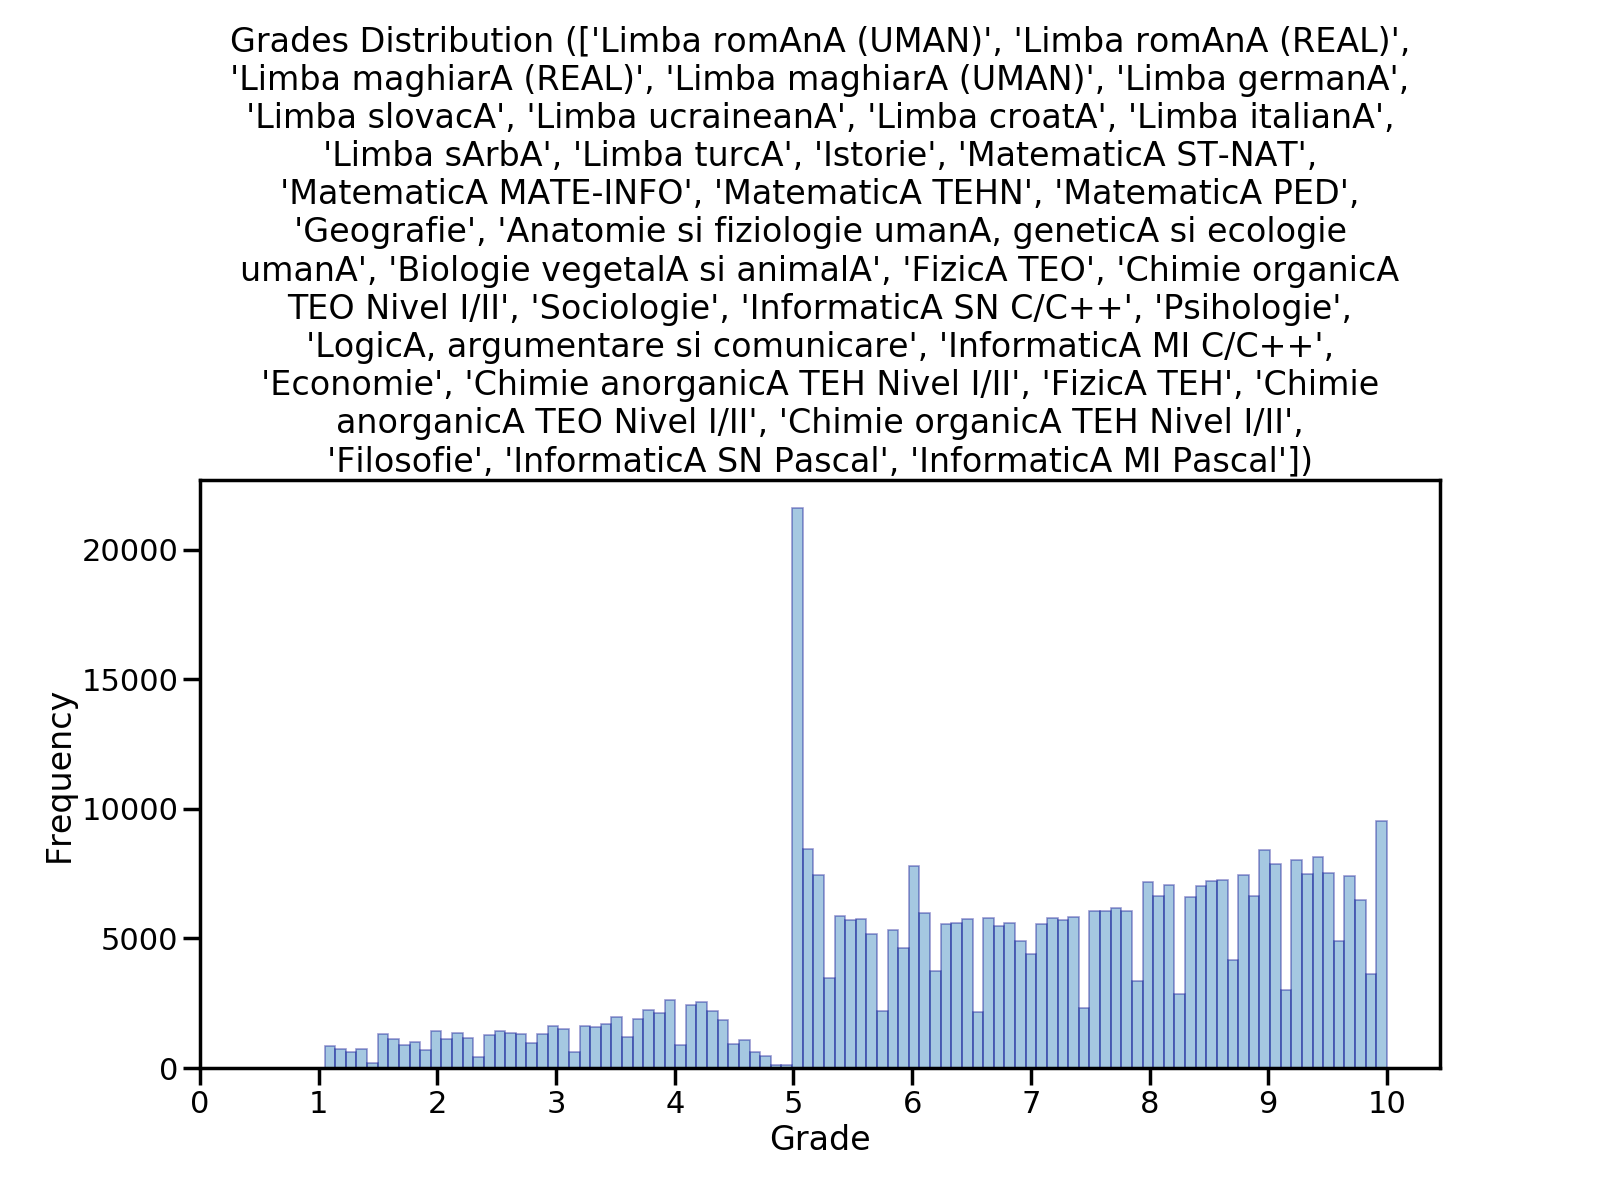
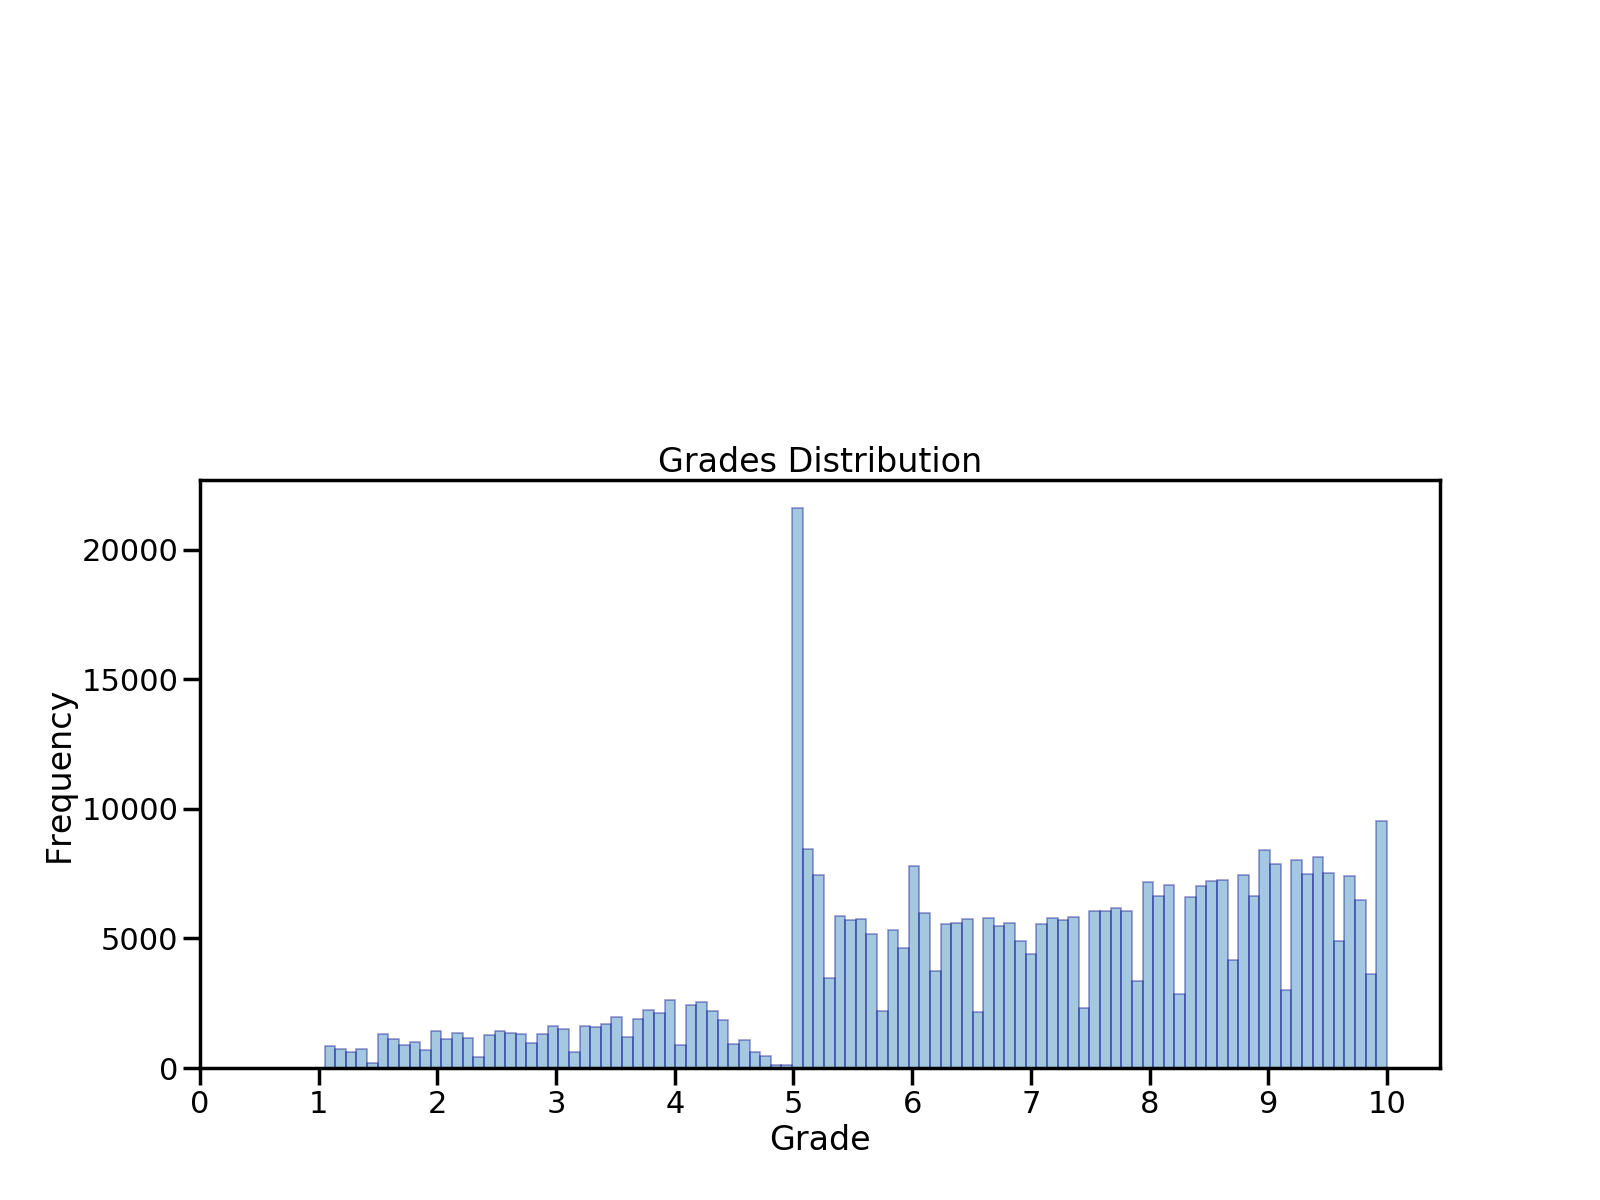
All line graphs (#40)
* create_all_line_graphs function created

* create_all_line_graphs function created

Changed region(s): [[0.1562, 0.0, 0.875, 0.4008]]

diff --git a/create_stats/create_linegraphs.py b/create_stats/create_linegraphs.py
@@ -1,28 +1,143 @@
 import sys
 import os
-sys.path.append( os.path.dirname(os.path.dirname(os.path.abspath(__file__))) ) 
-
+sys.path.append( os.path.dirname(os.path.dirname(os.path.abspath(__file__))) )
 import statistics
-from filters.student_filters import filter_by_gender, filter_by_medium
+from filters.student_filters import filter_all
 from create_stats.make_linegraph import make_linegraph
+from read_data.read_students import read_results
 
-def make_gender_linegraph(all_students, years):
+def create_all_linegraphs(all_students, years, export_path):
+ print("Started creating gender line graphs")
+ create_gender_linegraph(all_students, years, "Boys vs Girls GPA", export_path)
+ create_gender_linegraph(all_students, years, "Urban Boys vs Urban Girls GPA", export_path, "urban")
+ create_gender_linegraph(all_students, years, "Rural Boys vs Rural Girls GPA", export_path, "rural")
+ print("Finished creating gender line graphs\n")
+
+ print("Started creating medium line graphs")
+ create_medium_linegraph(all_students, years, "Urban vs Rural", export_path)
+ create_medium_linegraph(all_students, years, "Urban Boys vs Rural Boys", export_path, 'M')
+ create_medium_linegraph(all_students, years, "Urban Girls vs Rural Girls", export_path, 'F')
+ print("Finished creating medium line graphs\n")
+
+
+ print("Started creating mate-info line graphs")
+ create_specialization_linegraph(all_students, years, "mate-info vs stiinte ale naturii GPA", export_path, "matematica-informatica", "stiinte ale naturii")
+ create_specialization_linegraph(all_students, years, "mate-info rural vs stiinte ale naturii rural GPA", export_path, "matematica-informatica",
+                                                      "stiinte ale naturii", medium='rural')
+ create_specialization_linegraph(all_students, years, "mate-info rural boys vs stiinte ale naturii rural boys GPA", export_path, "matematica-informatica",
+                                                      "stiinte ale naturii", medium='rural', gender="M")
+ create_specialization_linegraph(all_students, years, "mate-info rural girls vs rural stiinte ale naturii rural girls GPA", export_path,
+                                                      "matematica-informatica","stiinte ale naturii", medium='rural', gender="F")
+ create_specialization_linegraph(all_students, years, "mate-info urban vs stiinte ale naturii urban GPA", export_path, "matematica-informatica",
+                                                      "stiinte ale naturii", medium='urban')
+ create_specialization_linegraph(all_students, years, "mate-info urban boys vs stiinte ale naturii urban boys GPA", export_path, "matematica-informatica",
+                                                      "stiinte ale naturii", medium='urban', gender="M")
+ create_specialization_linegraph(all_students, years, "mate-info urban girls vs stiinte ale naturii urban girls GPA", export_path, "matematica-informatica",
+                                                      "stiinte ale naturii", medium='urban', gender="F")
+ create_specialization_linegraph(all_students, years, "mate-info vs filologie GPA", export_path, "matematica-informatica", "filologie")
+ create_specialization_linegraph(all_students, years, "mate-info rural vs filologie rural GPA", export_path, "matematica-informatica",
+                                                      "filologie", medium='rural')
+ create_specialization_linegraph(all_students, years, "mate-info rural boys vs filologie rural boys GPA", export_path, "matematica-informatica",
+                                                      "filologie", medium='rural', gender="M")
+ create_specialization_linegraph(all_students, years, "mate-info rural girls vs rural filologie rural girls GPA", export_path, "matematica-informatica",
+                                                      "filologie", medium='rural', gender="F")
+ create_specialization_linegraph(all_students, years, "mate-info urban vs filologie urban GPA", export_path, "matematica-informatica",
+                                                      "filologie", medium='urban')
+ create_specialization_linegraph(all_students, years, "mate-info urban boys vs filologie urban boys GPA", export_path, "matematica-informatica",
+                                                      "filologie", medium='urban', gender="M")
+ create_specialization_linegraph(all_students, years, "mate-info urban girls vs filologie urban girls GPA", export_path, "matematica-informatica",
+                                                      "filologie", medium='urban', gender="F")
+ create_specialization_linegraph(all_students, years, "mate-info vs stiinte sociale GPA", export_path, "matematica-informatica", "stiinte sociale")
+ create_specialization_linegraph(all_students, years, "mate-info rural vs stiinte sociale rural GPA", export_path, "matematica-informatica",
+                                                      "stiinte sociale", medium='rural')
+ create_specialization_linegraph(all_students, years, "mate-info rural boys vs stiinte sociale rural boys GPA", export_path, "matematica-informatica",
+                                                      "stiinte sociale", medium='rural', gender="M")
+ create_specialization_linegraph(all_students, years, "mate-info rural girls vs rural stiinte sociale rural girls GPA", export_path, "matematica-informatica",
+                                                      "stiinte sociale", medium='rural', gender="F")
+ create_specialization_linegraph(all_students, years, "mate-info urban vs stiinte sociale urban GPA", export_path, "matematica-informatica",
+                                                      "stiinte sociale", medium='urban')
+ create_specialization_linegraph(all_students, years, "mate-info urban boys vs stiinte sociale urban boys GPA", export_path, "matematica-informatica",
+                                                      "stiinte sociale", medium='urban', gender="M")
+ create_specialization_linegraph(all_students, years, "mate-info urban girls vs stiinte sociale urban girls GPA", export_path, "matematica-informatica",
+                                                      "stiinte sociale", medium='urban', gender="F")
+ print("Finished creating mate-info line graphs\n")
+
+ print("Started creating stiinte ale naturii line graphs")
+ create_specialization_linegraph(all_students, years, "stiinte ale naturii vs filologie GPA", export_path, "stiinte ale naturii", "filologie")
+ create_specialization_linegraph(all_students, years, "stiinte ale naturii rural vs filologie rural GPA", export_path, "stiinte ale naturii",
+                                                      "filologie", medium='rural')
+ create_specialization_linegraph(all_students, years, "stiinte ale naturii rural boys vs filologie rural boys GPA", export_path, "stiinte ale naturii",
+                                                      "filologie", medium='rural', gender="M")
+ create_specialization_linegraph(all_students, years, "stiinte ale naturii rural girls vs rural filologie rural girls GPA", export_path, "stiinte ale naturii",
+                                                      "filologie", medium='rural', gender="F")
+ create_specialization_linegraph(all_students, years, "stiinte ale naturii urban vs filologie urban GPA", export_path, "stiinte ale naturii",
+                                                      "filologie", medium='urban')
+ create_specialization_linegraph(all_students, years, "stiinte ale naturii urban boys vs filologie urban boys GPA", export_path, "stiinte ale naturii",
+                                                      "filologie", medium='urban', gender="M")
+ create_specialization_linegraph(all_students, years, "stiinte ale naturii urban girls vs filologie urban girls GPA", export_path, "stiinte ale naturii",
+                                                      "filologie", medium='urban', gender="F")
+
+ create_specialization_linegraph(all_students, years, "stiinte ale naturii vs stiinte sociale GPA", export_path, "stiinte ale naturii", "stiinte sociale")
+ create_specialization_linegraph(all_students, years, "stiinte ale naturii rural vs stiinte sociale rural GPA", export_path, "stiinte ale naturii",
+                                                      "stiinte sociale", medium='rural')
+ create_specialization_linegraph(all_students, years, "stiinte ale naturii rural boys vs stiinte sociale rural boys GPA", export_path, "stiinte ale naturii",
+                                                      "stiinte sociale", medium='rural', gender="M")
+ create_specialization_linegraph(all_students, years, "stiinte ale naturii rural girls vs rural stiinte sociale rural girls GPA", export_path,
+                                                      "stiinte ale naturii","stiinte sociale", medium='rural', gender="F")
+ create_specialization_linegraph(all_students, years, "stiinte ale naturii urban vs stiinte sociale urban GPA", export_path, "stiinte ale naturii",
+                                                      "stiinte sociale", medium='urban')
+ create_specialization_linegraph(all_students, years, "stiinte ale naturii urban boys vs stiinte sociale urban boys GPA", export_path, "stiinte ale naturii",
+                                                      "stiinte sociale", medium='urban', gender="M")
+ create_specialization_linegraph(all_students, years, "stiinte ale naturii urban girls vs stiinte sociale urban girls GPA", export_path, "stiinte ale naturii",
+                                                     "stiinte sociale", medium='urban', gender="F")
+ print("Finished creating stiinte ale naturii line graphs\n")
+
+ print("Started creating filologie line graphs")
+ create_specialization_linegraph(all_students, years, "filologie vs stiinte sociale GPA", export_path, "filologie", "stiinte sociale")
+ create_specialization_linegraph(all_students, years, "filologie rural vs stiinte sociale rural GPA", export_path, "filologie",
+                                                      "stiinte sociale", medium='rural')
+ create_specialization_linegraph(all_students, years, "filologie rural boys vs stiinte sociale rural boys GPA", export_path, "filologie",
+                                                      "stiinte sociale", medium='rural', gender="M")
+ create_specialization_linegraph(all_students, years, "filologie rural girls vs rural stiinte sociale rural girls GPA", export_path, "filologie",
+                                                      "stiinte sociale", medium='rural', gender="F")
+ create_specialization_linegraph(all_students, years, "filologie urban vs stiinte sociale urban GPA", export_path, "filologie",
+                                                      "stiinte sociale", medium='urban')
+ create_specialization_linegraph(all_students, years, "filologie urban boys vs stiinte sociale urban boys GPA", export_path, "filologie",
+                                                      "stiinte sociale", medium='urban', gender="M")
+ create_specialization_linegraph(all_students, years, "filologie urban girls vs stiinte sociale urban girls GPA", export_path, "filologie",
+                                                      "stiinte sociale", medium='urban', gender="F")
+ print("Finished creating filologie line graphs\n")
+
+def create_gender_linegraph(all_students, years, title, export_path,medium=None):
     boys  = {}
     girls = {}
     for year in years:
-       boys[year]  = filter_by_gender(all_students[year], 'M')
-       girls[year] = filter_by_gender(all_students[year], 'F')
+       boys[year]  = filter_all(all_students[year], gender='M')
+       girls[year] = filter_all(all_students[year], gender='F')
     gender_means = get_means(boys, girls, years)
-    make_linegraph(gender_means, years, title = "BAC STATS: GPA VS GENDER", first_category = "Baieti", second_category = "Fete")
+    export_path = os.path.join(export_path, title)
+    make_linegraph(gender_means, years, title, export_path, first_category = "Baieti", second_category = "Fete")
 
-def make_medium_linegraph(all_students, years):
+def create_medium_linegraph(all_students, years, title, export_path, gender=None):
     rural = {}
     urban = {}
     for year in years:
-       rural[year]  = filter_by_medium(all_students[year], 'rural')
-       urban[year] = filter_by_medium(all_students[year], 'urban')
-    medium_means = get_means(urban, rural, years)
-    make_linegraph(medium_means, years, title = "BAC STATS: GPA VS MEDIUM", first_category = "Urban", second_category = "Rural")
+       urban[year] = filter_all(all_students[year], medium='urban', gender=gender)
+       rural[year]  = filter_all(all_students[year], medium='rural', gender=gender)
+    medium_means = get_means(rural, urban, years)
+    export_path = os.path.join(export_path, title)
+    make_linegraph(medium_means, years, title , export_path, first_category = "Rural", second_category = "Urban")
+
+def create_specialization_linegraph(all_students, years, title, export_path, first_spec, second_spec, medium=None, gender=None):
+    first = {}
+    second = {}
+    for year in years:
+       temp = filter_all(all_students[year], medium=medium, gender=gender)
+       first[year] = filter_all(temp, specialisation=first_spec)
+       second[year]  = filter_all(temp, specialisation=second_spec)
+    medium_means = get_means(first, second, years)
+    export_path = os.path.join(export_path, title)
+    make_linegraph(medium_means, years, title, export_path, first_category = first_spec, second_category = second_spec)
 
 def get_grades(students):
     grades = []
@@ -40,3 +155,11 @@ def get_means(first_category, second_category, years):
     means.append(first_grades_means)
     means.append(second_grades_means)
     return means
+
+if __name__ == "__main__":
+    years = ['2015','2016','2017','2019']
+    all_students = read_results(years)
+    dirpath = os.path.dirname(os.path.dirname(os.path.abspath(__file__)))
+    export_path = os.path.join(dirpath,r"plots")
+    export_path = os.path.join(export_path, r"Line Graphs")
+    create_all_linegraphs(all_students, years, export_path)

diff --git a/read_data/read_students.py b/read_data/read_students.py
@@ -1,14 +1,24 @@
 import sys
+import os
 from pathlib import Path
-sys.path.append(r'..')
+
+dirpath = os.path.dirname(os.path.dirname(os.path.abspath(__file__)))
+sys.path.append( os.path.dirname(os.path.dirname(os.path.abspath(__file__))) ) 
+
 from classes.student import initialize_students
+
+
+results_base_path = os.path.join(dirpath,"data")
+results_base_path = os.path.join(results_base_path,"good_bac_year.csv")
+
 
 def read_results(years):
     results = {}
-    results_base_path = r"../data/year/good_bac_year.csv"
-    schools_csv_file = Path(r"../data/2019/unitati_scolare_2019.csv")
+    # results_base_path = r"../data/good_bac_year.csv"
+    # schools_csv_file = Path(r"../data/unitati_scolare_2019.csv")
     for year in years:
         current_results_path = results_base_path.replace("year", year)
         results_csv_file = Path(current_results_path)
-        results[year] = initialize_students(results_csv_file, schools_csv_file)
+        # results[year] = initialize_students(results_csv_file, schools_csv_file)
+        results[year] = initialize_students(results_csv_file)
     return results

diff --git a/create_stats/make_linegraph.py b/create_stats/make_linegraph.py
@@ -1,6 +1,6 @@
 import matplotlib.pyplot as plt
 
-def make_linegraph(grades, years, title, x_label = 'Anul', y_label = 'Nota',
+def make_linegraph(grades, years, title, export_path, x_label = 'Anul', y_label = 'Nota',
                    first_category = "Baieti", second_category = "Fete"):
     years_label = []
     for year in years:
@@ -8,8 +8,10 @@ def make_linegraph(grades, years, title, x_label = 'Anul', y_label = 'Nota',
     plt.plot(years_label,grades[0],marker='o', markerfacecolor='blue', markersize=8, color='skyblue', linewidth=2)
     plt.plot(years_label,grades[1],marker='o', markerfacecolor='red', markersize=8, color='coral', linewidth=2)
     axes = plt.gca()
-    axes.set_ylim([5, 8])
+    axes.set_ylim([5, 9])
     axes.set_xlim([2014,2020])
     plt.legend([first_category, second_category], loc='upper left')
     plt.title(title)
-    plt.show()
+    # plt.show()
+    plt.savefig(export_path)
+    plt.close()

diff --git a/create_stats/grade_distribution.py b/create_stats/grade_distribution.py
@@ -143,7 +143,8 @@ def plot_grade_distribution(df, subjects, export = None, export_path=""):
         plt.ylabel('Frequency')
 
         plt.xticks(np.arange(11))
-        plt.title("\n".join(wrap("Grades Distribution ({})".format(subjects))))
+        # plt.title("\n".join(wrap("Grades Distribution ({})".format(subjects))))
+        plt.title("Grades Distribution")
 
         if add_vertical_space:
             plt.subplots_adjust(top=0.6)

diff --git a/create_stats/create_all_stats.py b/create_stats/create_all_stats.py
@@ -86,5 +86,7 @@ if __name__ == "__main__":
 
         except Exception as e:
             # logging.log(e)
+            # logging.log(e)
+            
             print(f"Year {year} went wrong")
 
